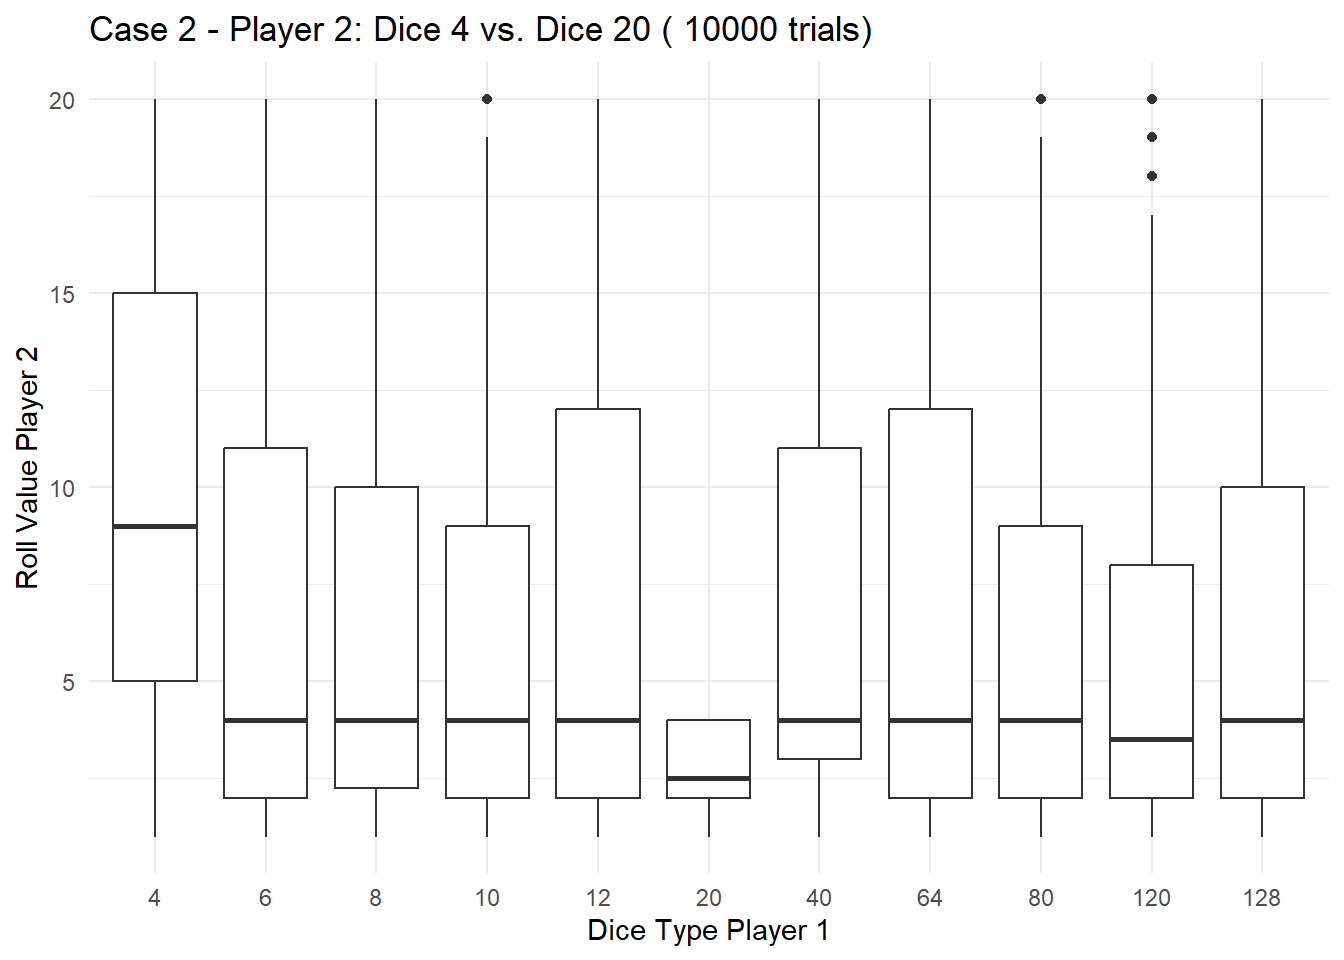
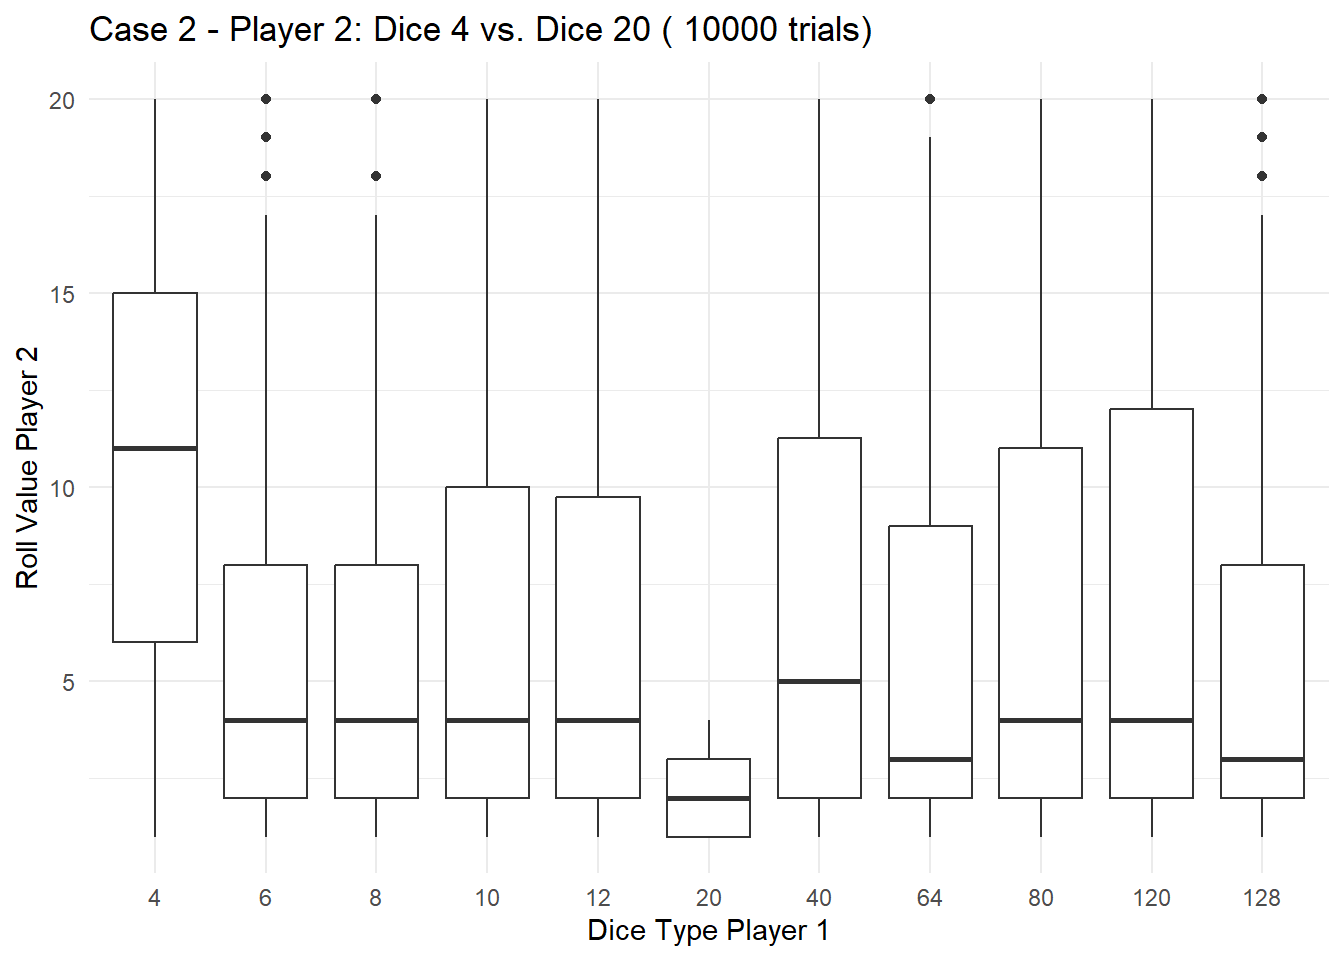
update

diff --git a/docs/posts/Riddle01/index.html b/docs/posts/Riddle01/index.html
@@ -245,7 +245,7 @@ code span.wa { color: #60a0b0; font-weight: bold; font-style: italic; } /* Warni
 <li><p><strong>Case 1: Both players take the same type of dice.</strong></p></li>
 <li><p><strong>Case 2: Both players take different types of dice (without repetition of the same combination).</strong></p></li>
 </ol>
-<p>We’ll generate plots for each case and then provide a summary of the results. Let’s proceed with the updated code:</p>
+<p>We’ll generate plots for each case and then provide a summary of the results. Here’s the code:</p>
 <div class="cell">
 <div class="sourceCode cell-code" id="cb1"><pre class="sourceCode r code-with-copy"><code class="sourceCode r"><span id="cb1-1"><a href="#cb1-1" aria-hidden="true" tabindex="-1"></a><span class="fu">library</span>(ggplot2)</span>
 <span id="cb1-2"><a href="#cb1-2" aria-hidden="true" tabindex="-1"></a><span class="co"># Function to simulate a single dice duel with both players taking the same type of dice</span></span>
@@ -358,21 +358,21 @@ Summary of Case 1 - Same Dice:</code></pre>
 <div class="cell-output cell-output-stdout">
 <pre><code>
    1    2    3    4    5    6    7    8    9   10   11   12   13   14   15   16 
-1581 1489 1526 1550 1112 1036  787  775  536  533  359  367  240  212  213  215 
+1539 1527 1524 1514 1041 1100  824  765  546  517  362  365  208  229  192  200 
   17   18   19   20   21   22   23   24   25   26   27   28   29   30   31   32 
- 187  219  261  210  152  127  119  130  107  113  116  143  127  139  115  140 
+ 202  234  216  240  132  144  150  134  123  120  134  132  124  128  139  122 
   33   34   35   36   37   38   39   40   41   42   43   44   45   46   47   48 
- 136  121  123  124  128  122  130  114   60   97   85   90   89   82   64   76 
+ 121  109  105  141  129  113  107  143   88   81   65   70   89   73   98   89 
   49   50   51   52   53   54   55   56   57   58   59   60   61   62   63   64 
-  78   78   72   78   79   77   69   84   81   72   84   77   88   67   74  107 
+  84   75   83   96   83   89   80   81   74   75   77   79   81   78   86   89 
   65   66   67   68   69   70   71   72   73   74   75   76   77   78   79   80 
-  43   48   57   54   52   46   52   54   47   42   45   49   56   35   63   60 
+  63   44   40   57   45   50   59   46   49   42   55   69   52   49   62   62 
   81   82   83   84   85   86   87   88   89   90   91   92   93   94   95   96 
-  26   28   34   30   35   36   25   26   21   33   39   26   15   37   25   27 
+  35   29   33   24   36   44   30   21   23   33   36   28   33   27   30   21 
   97   98   99  100  101  102  103  104  105  106  107  108  109  110  111  112 
-  27   34   29   40   34   31   22   29   33   35   30   36   39   25   23   34 
+  23   28   23   24   27   33   32   33   22   25   21   29   28   39   28   34 
  113  114  115  116  117  118  119  120  121  122  123  124  125  126  127  128 
-  43   27   29   32   32   27   27   41   16   12   24   20   14   19   17   11 </code></pre>
+  27   37   30   35   22   36   27   23   20    9   12   18   19   18   15   18 </code></pre>
 </div>
 <div class="sourceCode cell-code" id="cb11"><pre class="sourceCode r code-with-copy"><code class="sourceCode r"><span id="cb11-1"><a href="#cb11-1" aria-hidden="true" tabindex="-1"></a><span class="fu">cat</span>(<span class="st">"</span><span class="sc">\n</span><span class="st">Summary of Case 2 - Different Dice:</span><span class="sc">\n</span><span class="st">"</span>)</span></code><button title="Copy to Clipboard" class="code-copy-button"><i class="bi"></i></button></pre></div>
 <div class="cell-output cell-output-stdout">
@@ -383,7 +383,7 @@ Summary of Case 2 - Different Dice:</code></pre>
 <div class="cell-output cell-output-stdout">
 <pre><code>
 FALSE  TRUE 
-19318   682 </code></pre>
+19344   656 </code></pre>
 </div>
 </div>
 </section>

diff --git a/docs/listing.html b/docs/listing.html
@@ -467,7 +467,7 @@ Jan 12, 2024
 2 min
 </td>
 </tr>
-<tr data-index="15" data-categories="R,Fun" data-listing-date-sort="1705186800000" data-listing-file-modified-sort="1705245841857" data-listing-reading-time-sort="5.6" data-listing-title-sort="Title: Unraveling the DnD Dice Duel Riddle with Monte Carlo Simulation in R" data-listing-filename-sort="index.qmd">
+<tr data-index="15" data-categories="R,Fun" data-listing-date-sort="1705186800000" data-listing-file-modified-sort="1705246729428" data-listing-reading-time-sort="5.585" data-listing-title-sort="Title: Unraveling the DnD Dice Duel Riddle with Monte Carlo Simulation in R" data-listing-filename-sort="index.qmd">
 <td class="listing-image">
 <div class="table-img" style="height: 40px;">
 &nbsp;
